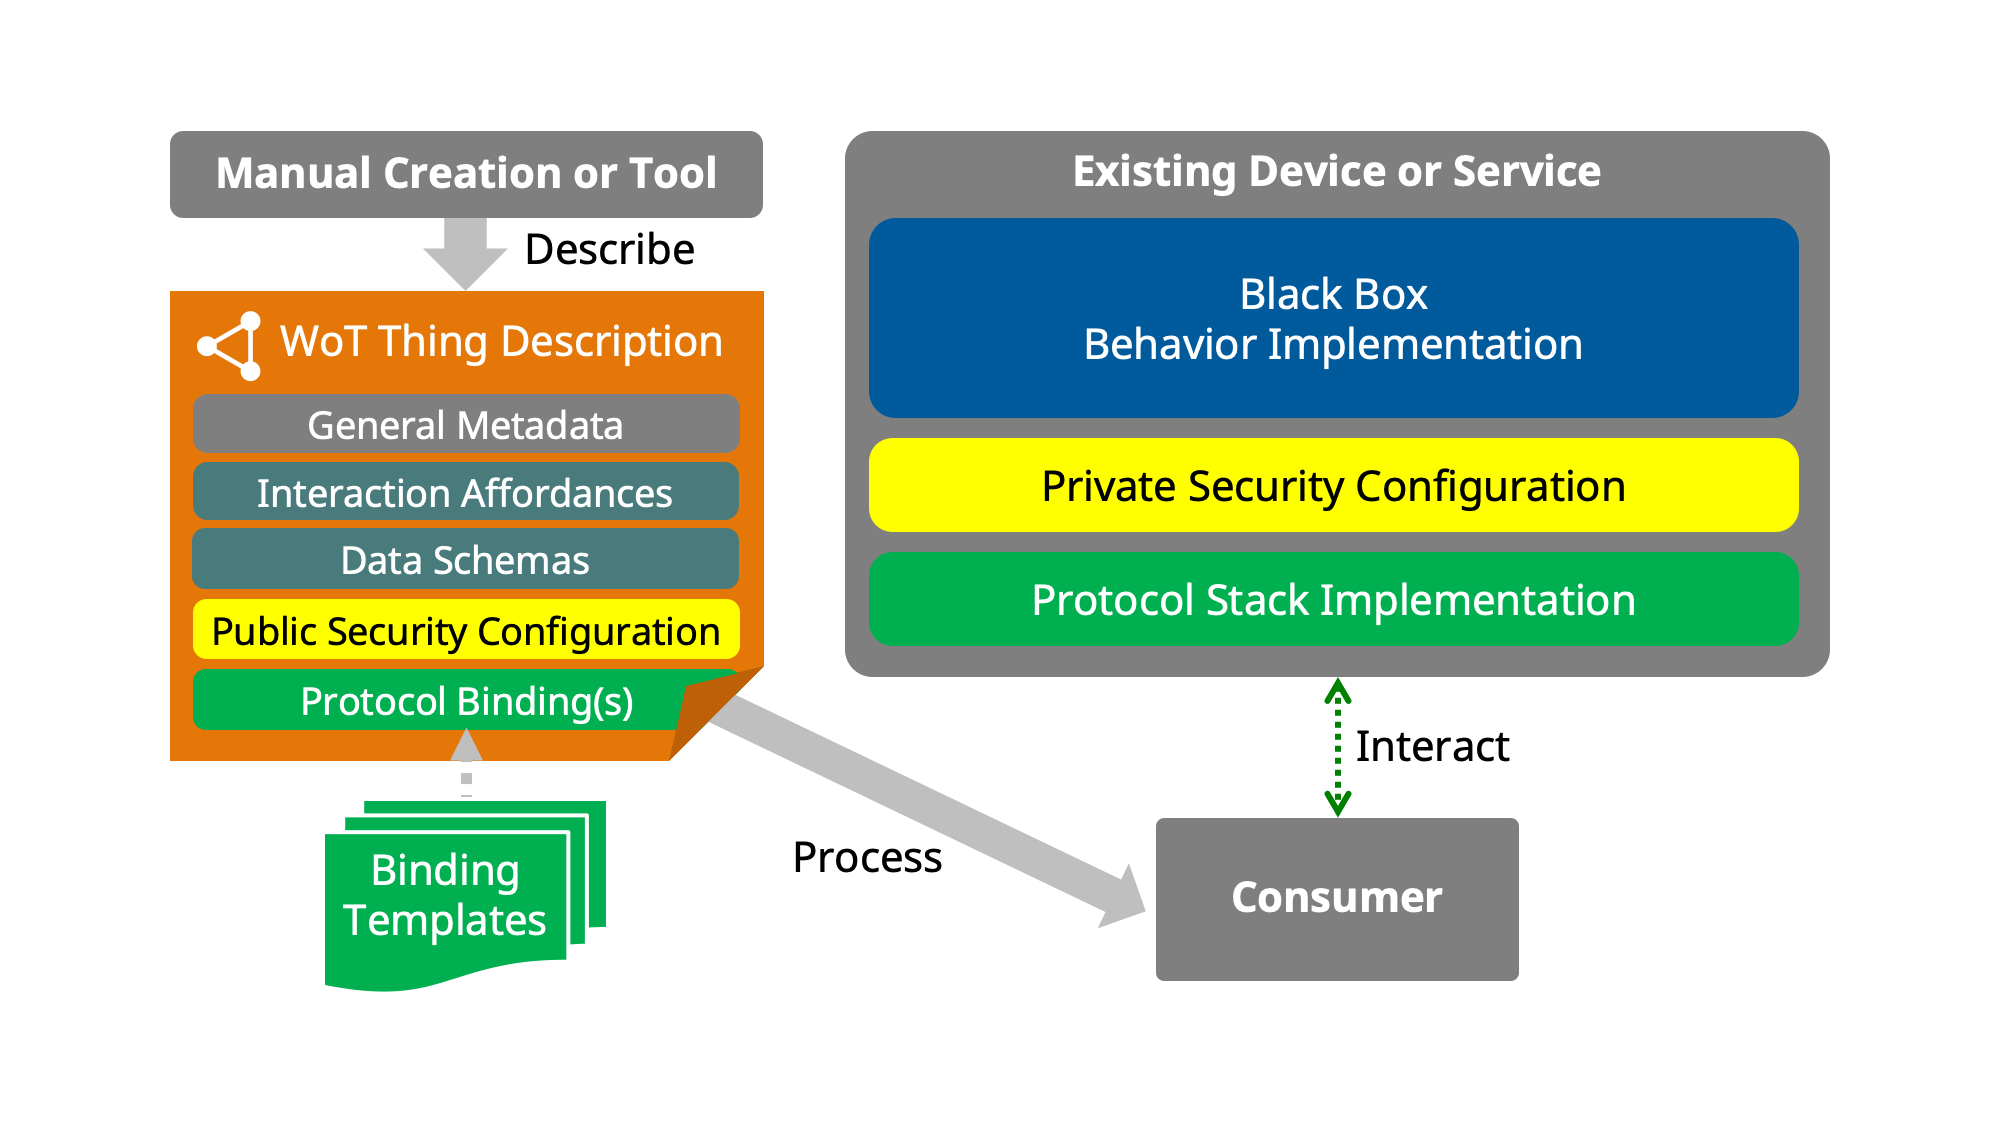
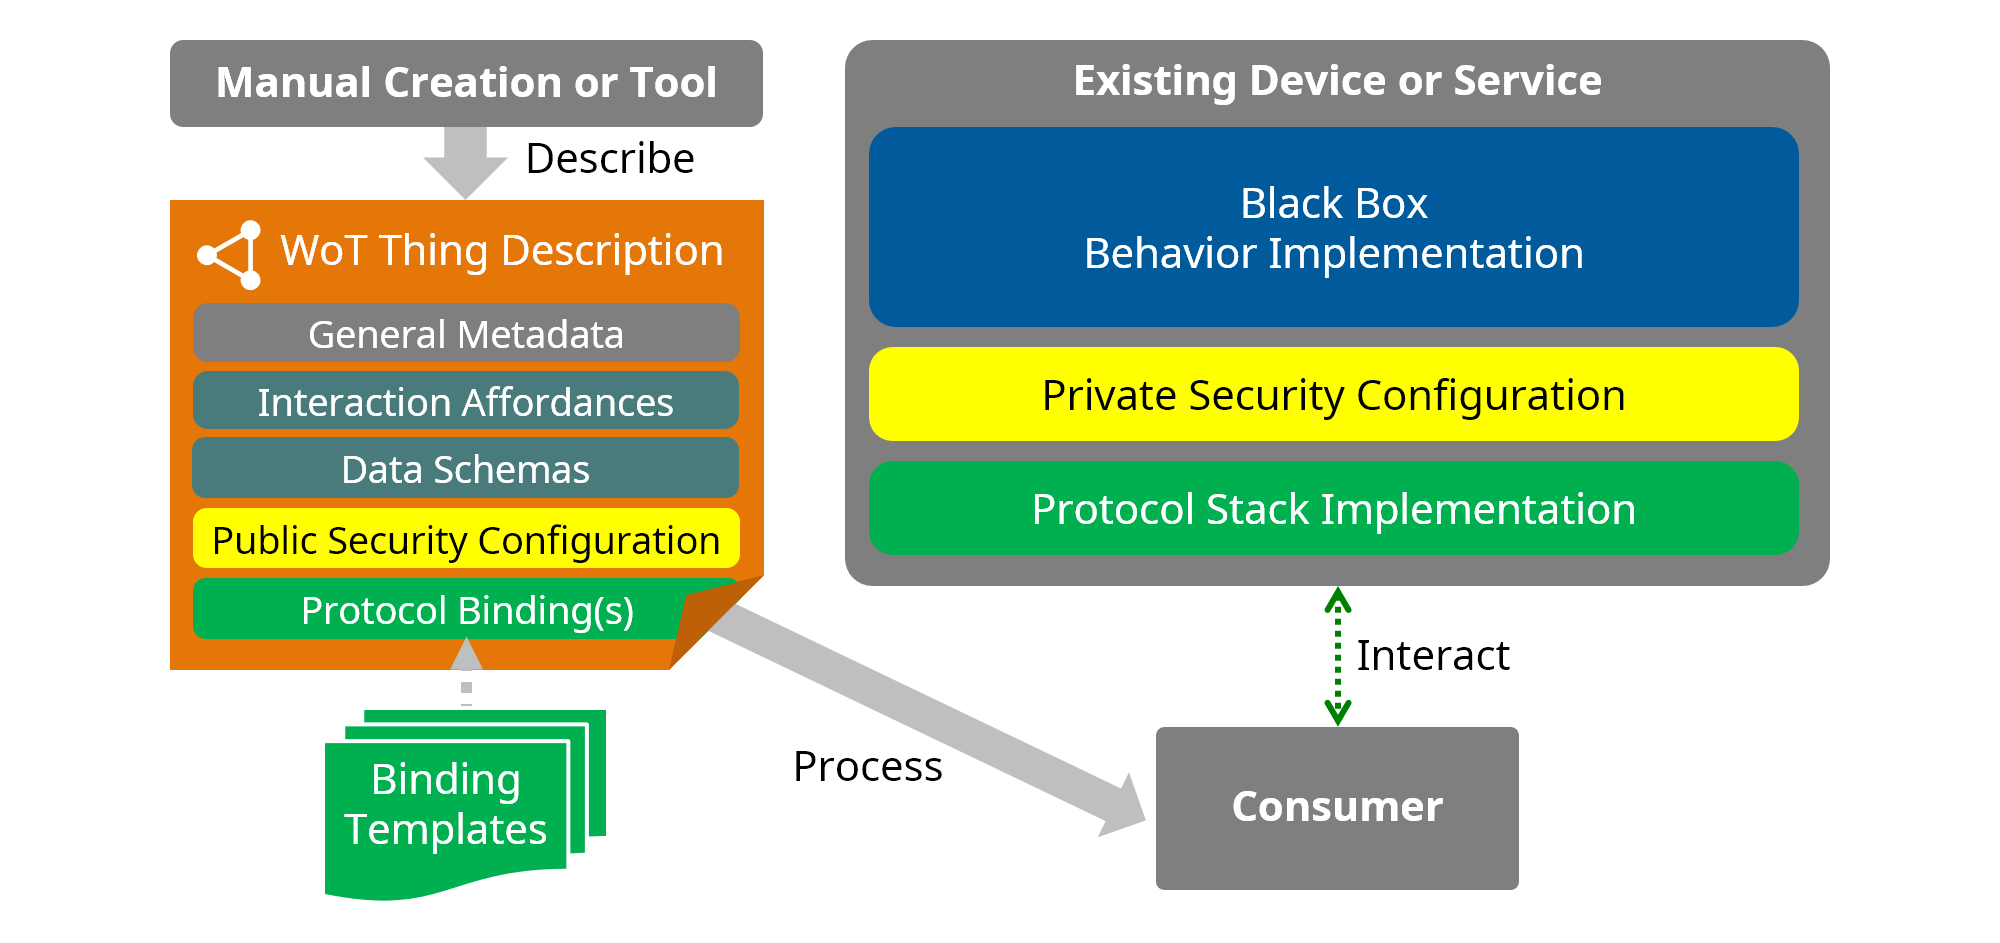
update images in Section 8

Changed region(s): [[0.062, 0.0308, 0.93, 0.9533]]

diff --git a/index.html b/index.html
@@ -2665,6 +2665,7 @@ img.wot-arch-diagram {
         </p>
         <figure id="architecture-implementation">
             <img src="images/servient/wot-thing-scripting.png"
+                 srcset="images/servient/wot-thing-scripting.svg"
                  class="wot-arch-diagram" alt="architecture implementation" />
             <figcaption>Implementation of a Servient using the WoT Scripting API</figcaption>
         </figure>
@@ -2900,7 +2901,8 @@ img.wot-arch-diagram {
                     are also valid for <a href="#architecture-implementation-native"></a>.
                 </p>
                 <figure id="architecture-implementation-native">
-                    <img src="images/servient/wot-thing-native.png" 
+                    <img src="images/servient/wot-thing-native.png"
+                         srcset="images/servient/wot-thing-native.svg" 
                          class="wot-arch-diagram" alt="implementation native" />
                     <figcaption>Implementation of a Servient Using a Native WoT API</figcaption>
                 </figure>
@@ -2930,6 +2932,7 @@ img.wot-arch-diagram {
                 </p>
                 <figure id="architecture-implementation-existing">
                     <img src="images/servient/wot-thing-existing.png" 
+                         srcset="images/servient/wot-thing-existing.svg"
                          class="wot-arch-diagram" alt="implementation existing" />
                     <figcaption>Integration of Existing IoT Devices into W3C WoT</figcaption>
                 </figure>
